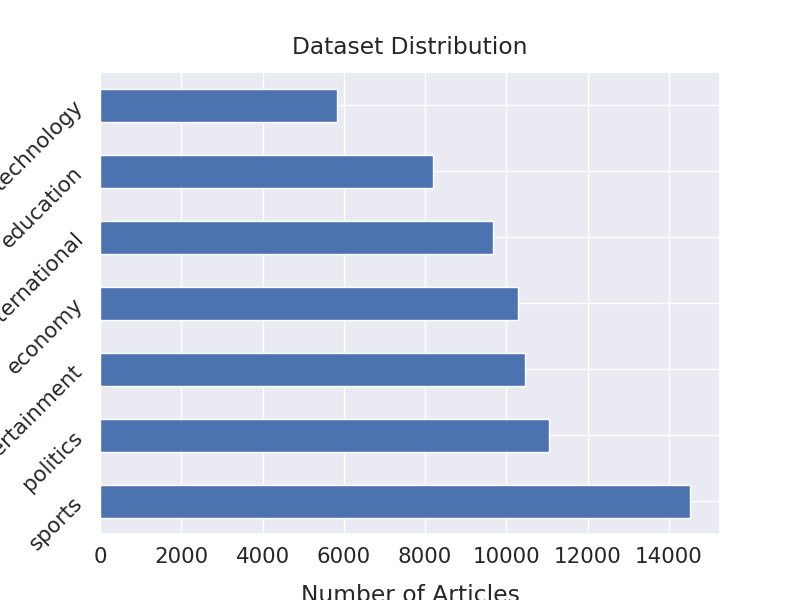
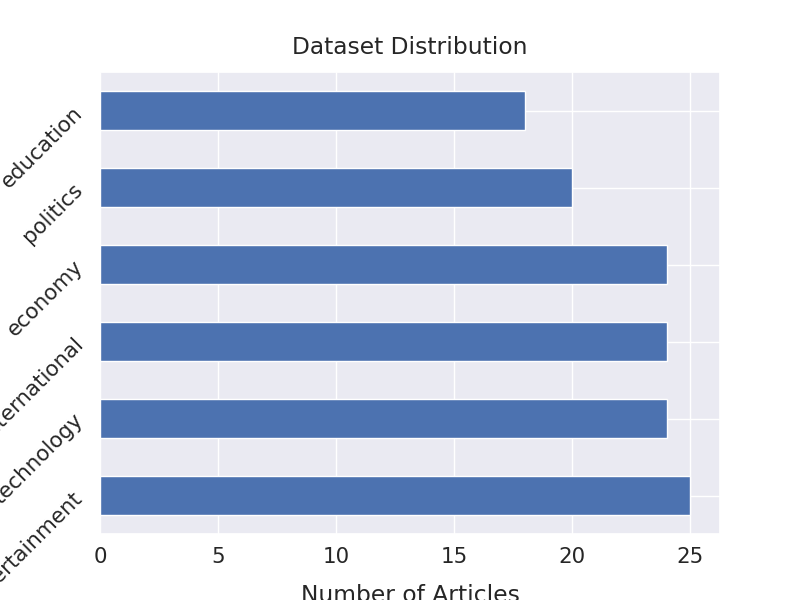
enabled train_fasttext simple ann

diff --git a/__main__.py b/__main__.py
@@ -23,11 +23,11 @@ def main():
 
     # Train and evaluation
     trainer = ModelTrainer(data, data_test)
-    trainer.train_keras_tokenaizer(MODEL_BIDIRECTIONAL_GRU)
-    trainer.train_keras_tokenaizer(MODEL_CNN_BIDIRECTIONAL_LSTM)
+    # trainer.train_keras_tokenaizer(MODEL_BIDIRECTIONAL_GRU)
+    # trainer.train_keras_tokenaizer(MODEL_CNN_BIDIRECTIONAL_LSTM)
     trainer.train_fasttext(MODEL_FASTTEXT_SIMPLE)
-    trainer.train_fasttext(MODEL_FASTTEXT_DEEP_ANN)
-    trainer.train_tfidf_ml(MODEL_ML)
+    # trainer.train_fasttext(MODEL_FASTTEXT_DEEP_ANN)
+    # trainer.train_tfidf_ml(MODEL_ML)
 
 
 if __name__=='__main__':

diff --git a/scraping/jagonews24.py b/scraping/jagonews24.py
@@ -128,7 +128,7 @@ def main_jagonews24(categories, category):
     # chromedriver_autoinstaller.install(True)
     time.sleep(10)
     chrome_version = chromedriver_autoinstaller.get_chrome_version()
-    driver_dcra = get_driver('https://www.jagonews24.com/', chrome_version = chrome_version, headless=True)
+    driver_dcra = get_driver('https://www.jagonews24.com/', chrome_version = chrome_version, headless=False)
     scraper = DcraScraper(driver_dcra)
     scraper.scrape(categories, category)
     driver_dcra.quit()

diff --git a/scraping/multi_threding.py b/scraping/multi_threding.py
@@ -47,7 +47,7 @@ def scrape_jagonews24():
    categories = {'sports':'sports', 'international':'international', 'economy':'economy', 'entertainment':'entertainment',
                          'technology':'technology', 'politics':'politics', 'education':'education'}
 
-   # categories = {'sports':'sports'}
+   categories = {'sports':'sports'}
 
    for category in categories:
       time.sleep(3)
